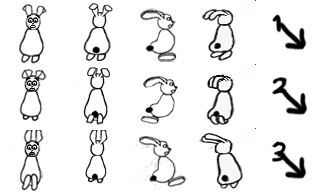
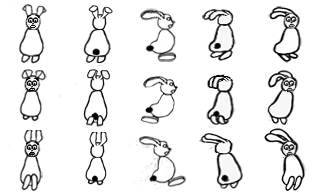
Updated the animations. Added zombie animations..

Changed region(s): [[0.8125, 0.0312, 0.9688, 1.0], [0.25, 0.0, 0.375, 0.9688], [0.8125, 0.5625, 0.8438, 0.5938]]

diff --git a/kaninator/game/Game.java b/kaninator/game/Game.java
@@ -28,25 +28,40 @@ public class Game extends GameState
 	private ArrayList<DynamicObject> enemyList;
 	private Map map;
 	
-	
+	/**
+	 * Initializes the game.
+	 * Loads the map using MapLoader, creates animations for the player and the
+	 * zombies using AnimationFactory and positions them randomly.
+	 * @param _camera The camera class used to render the internal objects to a 2 dimensional screen.
+	 * @param _gui The gui class used for overlays.
+	 * @param _keyboard The keyboard class for key input.
+	 * @param _mouse Mouse input.
+	 * @see kaninator.io.AnimationFactory
+	 * @see kaninator.io.MapLoader
+	 */
 	public Game(Camera _camera, GUI _gui, Keyboard _keyboard, Mouse _mouse)
 	{
 		super(_camera, _gui, _keyboard, _mouse);
 		
 		try
 		{
+			//load files
 			map = MapLoader.readMap("/resources/testmap.map");
 			ArrayList<Animation> list = AnimationFactory.createAnimations("/resources/theSheet.png", true, 64, 64, 0.30);
-
+			
 			player = new Player(list, map, 0, 0, 4.0);
+			
+			//create enemies
+			ArrayList<Animation> enemyAnim = AnimationFactory.createAnimations("/resources/zombSheet.png", true, 64, 64, 0.30);
 			enemies = new ArrayList<NonPlayerObject>();
 			enemyList = new ArrayList<DynamicObject>();
+			ArrayList<Animation> newList = enemyAnim;
 			for(int i = 0; i < 5; i++)
 			{
-				ArrayList<Animation> newList = AnimationFactory.cloneAnimations(list);
 				NonPlayerObject enemy = new NonPlayerObject(newList, map, player.getDynamicObjects().get(1), Math.random()*400 + 128, Math.random()*400 + 128, 4.0);
 				enemies.add(enemy);
 				enemyList.add(enemy.getDynamicObjects().get(1));
+				newList = AnimationFactory.cloneAnimations(enemyAnim);
 			}
 		}
 		catch(IOException e)
@@ -54,7 +69,13 @@ public class Game extends GameState
 			System.out.println("FILE ERROR: " + e);
 		}
 	}
-
+	
+	/**
+	 *  The game loop. Sends the DynamicObjects (Player & NonPlayerObjects) to the camera,
+	 *  enters the game loop (update objects -> update player -> update camera -> change the
+	 *  player coordinates -> loop). After the gameloop is done it clears up the objects from
+	 *  the camera.
+	 */
 	public int doState()
 	{
 		
@@ -97,6 +118,10 @@ public class Game extends GameState
 		return 4;
 	}
 	
+	
+	/**
+	 * Passes the keyboard input to the player.
+	 */
 	private void movePlayer()
 	{
 		player.setMove(keyboard.isPressed(KeyEvent.VK_W), Player.MOVE_UP);

diff --git a/kaninator/game/Highscore.java b/kaninator/game/Highscore.java
@@ -47,11 +47,10 @@ public class Highscore extends GameState
 	}
 	
 	
-	
-	/* (non-Javadoc)
-	 * @see kaninator.game.GameState#doState()
+	/**
+	 * High scores menu, implemented using the Menu class.
+	 * @see kaninator.mechanics.menu 
 	 */
-	@Override
 	public int doState()
 	{
 		int retvalue = 0;
